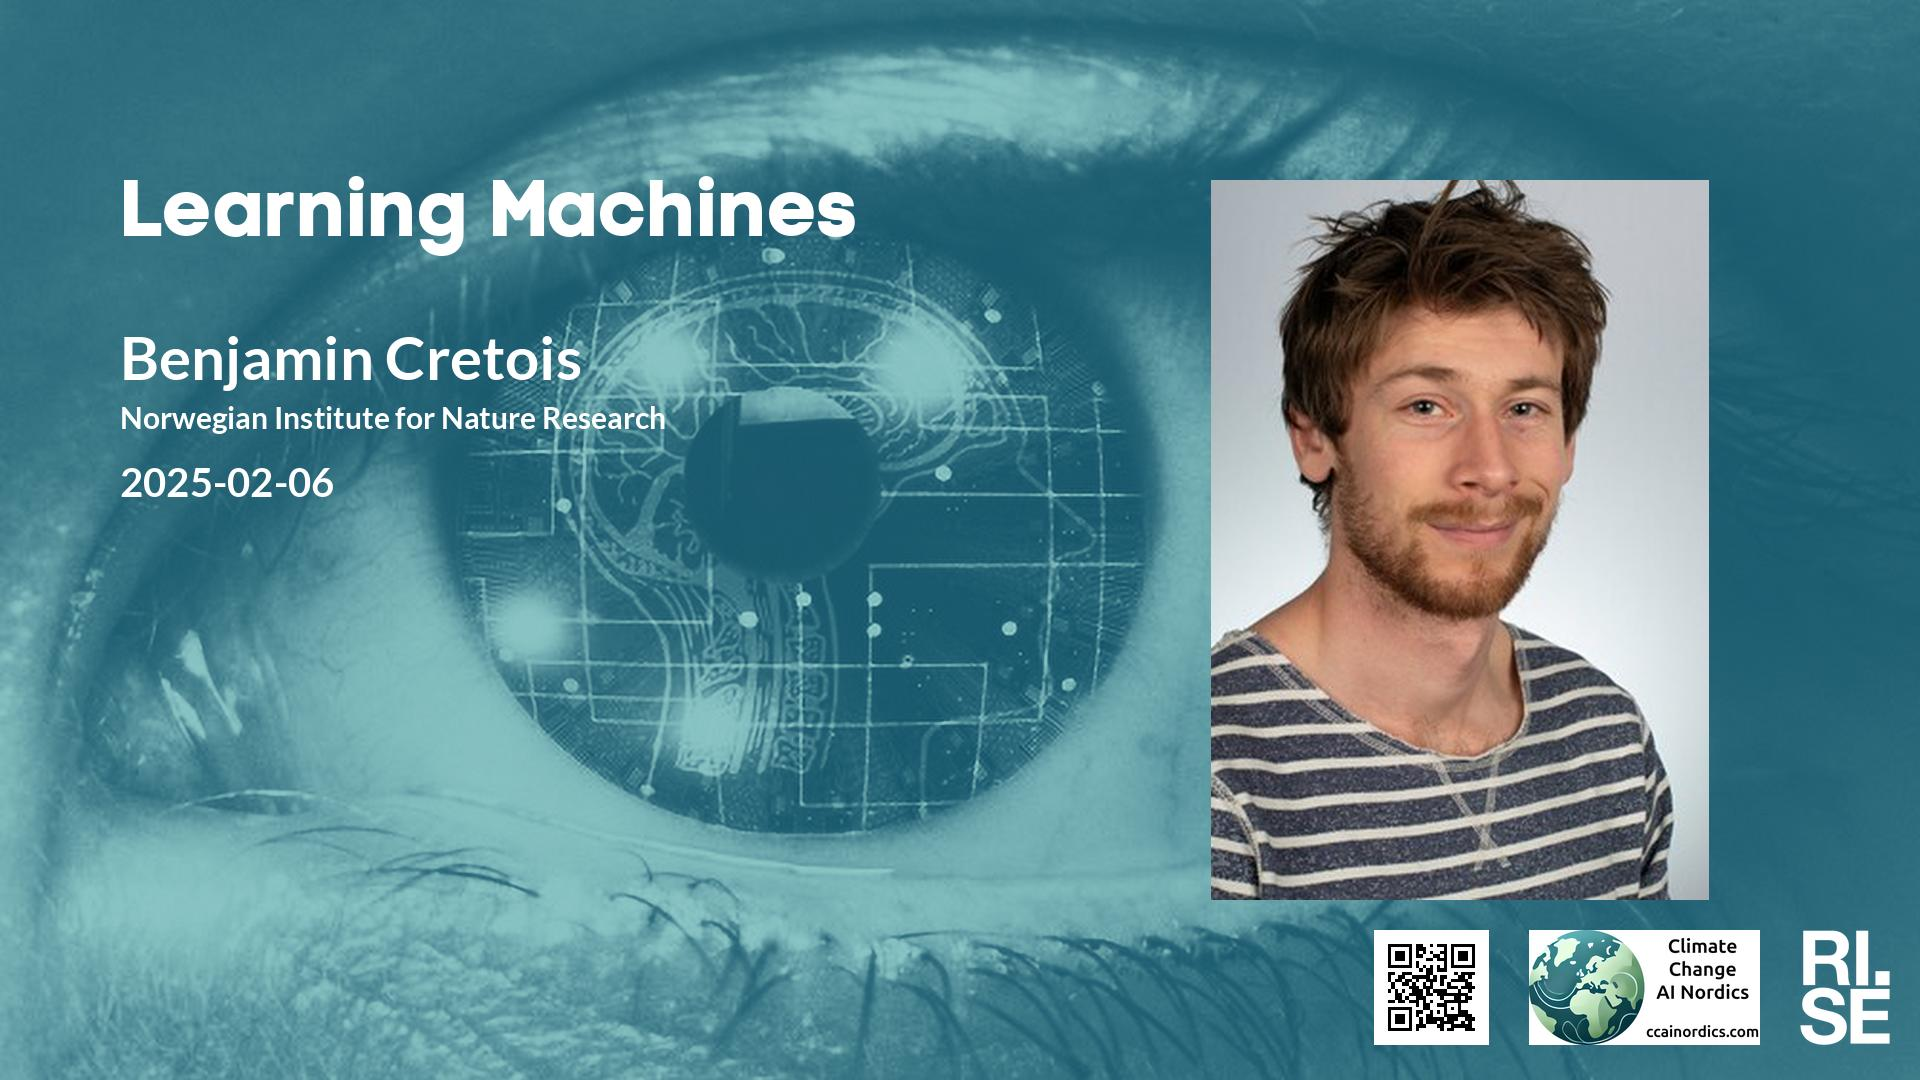
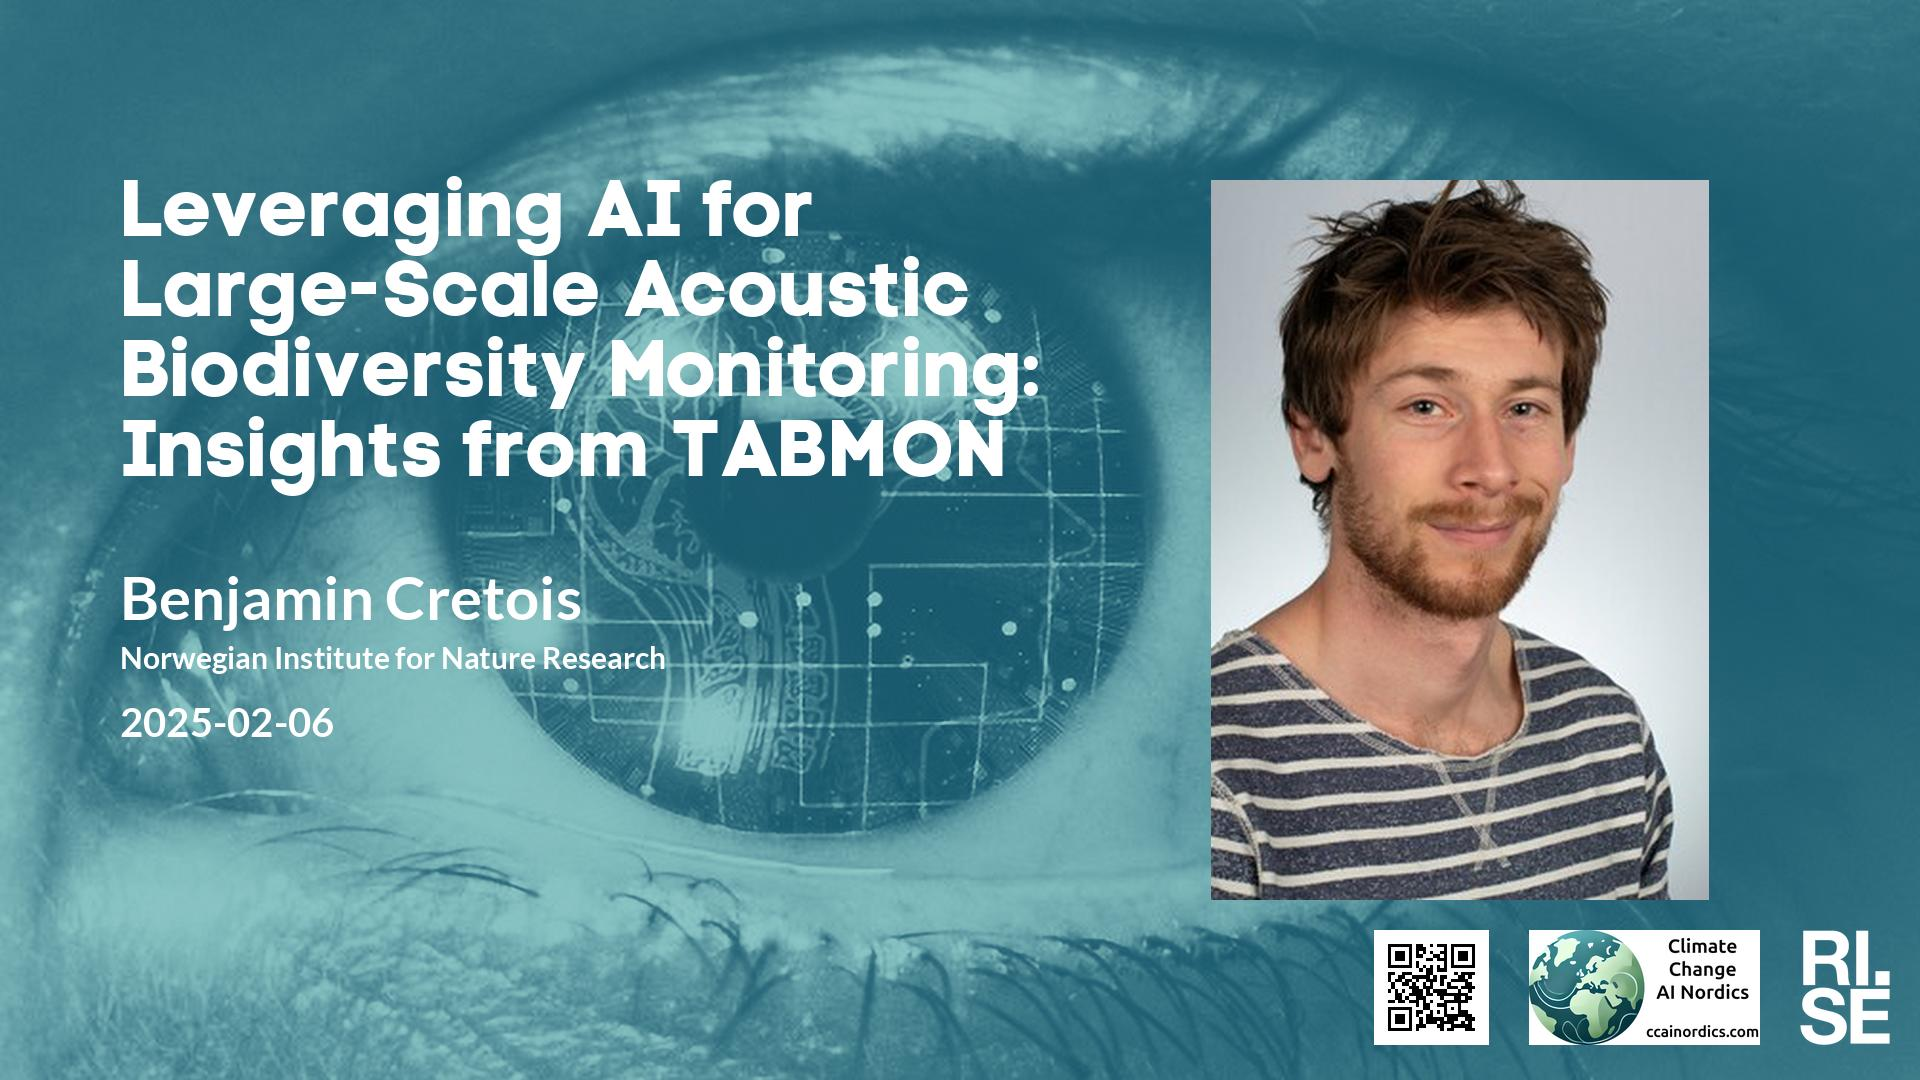
Updated plan on web site.

Changed region(s): [[0.0625, 0.1528, 0.5625, 0.4583], [0.0625, 0.5194, 0.3438, 0.7028]]

diff --git a/lm/index.md b/lm/index.md
@@ -5,7 +5,7 @@ metatags: "<meta name=\"robots\" content=\"noindex,nofollow\" />"
 <style type="text/css" scoped>
 td, th {border: 1px solid #ccc; padding: 0.6em;}
 table {border-collapse: collapse;}
-</style># Learning Machines Plan 2025-01-08
+</style># Learning Machines Plan 2025-01-09
 
 | date | speaker                                   | photo | shareable | meeting backdrop | youtube thumbnail | <a title="Speaker, Title, Abstract, Bio, Photo. Strikethrough means we don't have it yet.">comment</a>        |
 | ---- | ----------------------------------------- | ----- | ----- | ----- | ----- | -------------- |
@@ -13,7 +13,7 @@ table {border-collapse: collapse;}
 |  2025-01-16  |  [Oscar Täckström, Sana Labs](2025-01-16.md)  |  [photo](photo-oscar-tackstrom.jpg)  |  [social media ](social-media-oscar-tackstrom.jpg)  |  [meeting backdrop ](meeting-backdrop-oscar-tackstrom.jpg)  |  [youtube thumbnail ](youtube-thumbnail-oscar-tackstrom.jpg)  |  STABP  |
 |  2025-01-23  |  [Newton Mwai Kinyanjui, Chalmers University of Technology](2025-01-23.md)  |  [photo](photo-newton-mwai-kinyanjui.jpg)  |  [social media ](social-media-newton-mwai-kinyanjui.jpg)  |  [meeting backdrop ](meeting-backdrop-newton-mwai-kinyanjui.jpg)  |  [youtube thumbnail ](youtube-thumbnail-newton-mwai-kinyanjui.jpg)  |  STABP  |
 |  2025-01-30  |  [Amal Nammouchi, Karlstad University and AfriClimate AI](2025-01-30.md)  |  [photo](photo-amal-nammouchi.jpg)  |  [social media ](social-media-amal-nammouchi.jpg)  |  [meeting backdrop ](meeting-backdrop-amal-nammouchi.jpg)  |  [youtube thumbnail ](youtube-thumbnail-amal-nammouchi.jpg)  |  STABP  |
-|  2025-02-06  |  [Benjamin Cretois, Norwegian Institute for Nature Research](2025-02-06.md)  |  [photo](photo-benjamin-cretois.jpg)  |  [social media ](social-media-benjamin-cretois.jpg)  |  [meeting backdrop ](meeting-backdrop-benjamin-cretois.jpg)  |  [youtube thumbnail ](youtube-thumbnail-benjamin-cretois.jpg)  |  S~~TAB~~P  |
+|  2025-02-06  |  [Benjamin Cretois, Norwegian Institute for Nature Research](2025-02-06.md)  |  [photo](photo-benjamin-cretois.jpg)  |  [social media ](social-media-benjamin-cretois.jpg)  |  [meeting backdrop ](meeting-backdrop-benjamin-cretois.jpg)  |  [youtube thumbnail ](youtube-thumbnail-benjamin-cretois.jpg)  |  STABP  |
 | <span style="color:red"> 2025-02-13 </span> | <span style="color:red"> Sportlov GBG </span> | <span style="color:red">  </span> | <span style="color:red">  </span> | <span style="color:red">  </span> | <span style="color:red">  </span> | <span style="color:red"> CANCELLED </span> |
 |  2025-02-20  |  [Abdulhakim Abdi, Lund University](2025-02-20.md)  |  [photo](photo-abdulhakim-abdi.jpg)  |  [social media ](social-media-abdulhakim-abdi.jpg)  |  [meeting backdrop ](meeting-backdrop-abdulhakim-abdi.jpg)  |  [youtube thumbnail ](youtube-thumbnail-abdulhakim-abdi.jpg)  |  S~~TAB~~P  |
 | <span style="color:red"> 2025-02-27 </span> | <span style="color:red"> Sportlov STHLM </span> | <span style="color:red">  </span> | <span style="color:red">  </span> | <span style="color:red">  </span> | <span style="color:red">  </span> | <span style="color:red"> CANCELLED </span> |

diff --git a/lm/2025-02-06.md b/lm/2025-02-06.md
@@ -7,13 +7,17 @@ Welcome to this week's Learning Machines seminar.
 
 This seminar is a collaboration between RISE and Climate AI Nordics -- [climateainordics.com](https://climateainordics.com/).
 
-**Title:** N/A
+**Title:** Leveraging AI for Large-Scale Acoustic Biodiversity Monitoring: Insights from TABMON
 
 **Speaker:** Benjamin Cretois, Norwegian Institute for Nature Research
 
-**Abstract:** N/A
+**Abstract:** Advancing biodiversity monitoring is crucial for meeting the EU Biodiversity Strategy targets and addressing gaps in current ecological assessments. However, collecting data to monitor the state of biodiversity is time and resource consuming. Passive Acoustic Monitoring (PAM), in combination with AI tools offers an efficient alternative to conventional data collection practices. PAM is a non-invasive method that uses sound recorders to capture wildlife vocalizations and environmental sounds over time. It is particularly valuable for monitoring elusive or nocturnal species, such as birds, amphibians, and marine mammals, that are challenging to detect visually.
 
-**About the speaker:** N/A
+The &quot;Towards a Transnational Acoustic Biodiversity Monitoring Network&quot; (TABMON) project is an initiative to establish a transnational passive acoustic monitoring monitoring network using autonomous acoustic sensors across four different European countries: Norway, Netherlands, France and Spain. TABMON’s objective is to demonstrate how acoustic sensing, coupled with cutting-edge AI, can complement traditional monitoring methods and support the development of methods to better monitor biodiversity.
+
+In this talk, we will also share our experiences with the deployment of acoustic recorders, data management strategies, and annotation protocols. These include managing large-scale, networked deployments across diverse landscapes, designing an efficient annotation workflow, and leveraging AI tools to process and analyze massive datasets.
+
+**About the speaker:** Benjamin Cretois is a researcher at the Norwegian Institute for Nature Research (NINA), working at the interface of artificial intelligence, statistics, and biodiversity conservation. His work primarily focuses on developing deep learning tools to better analyze bioacoustic data.
 
 **Location:** This is an online seminar. Connect using Zoom.
 
